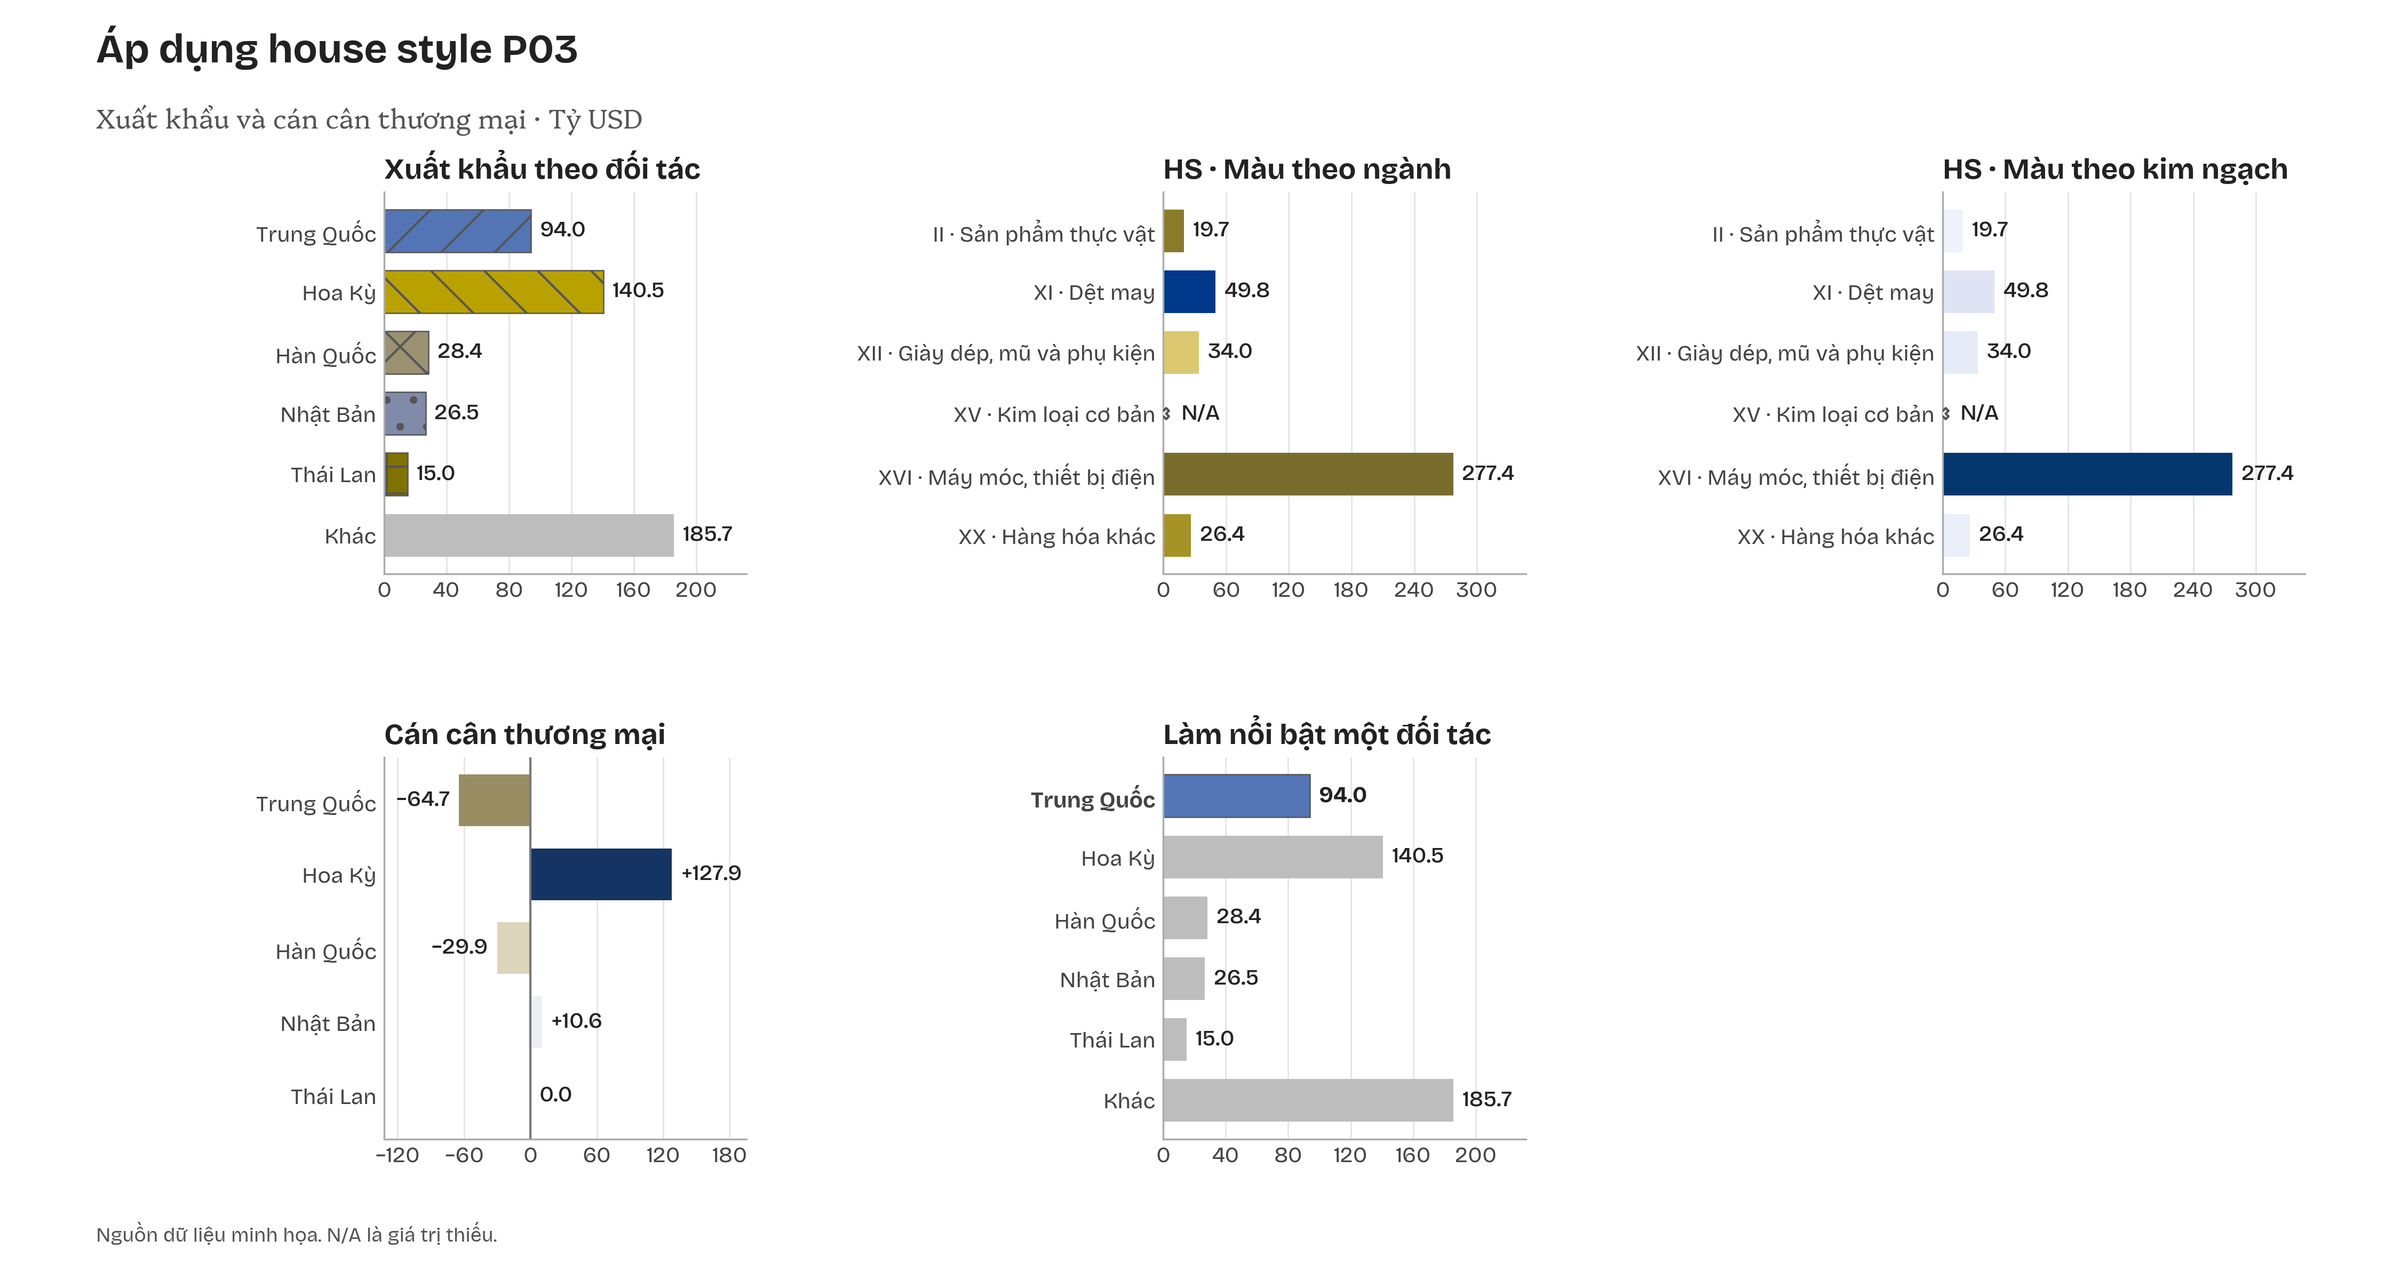
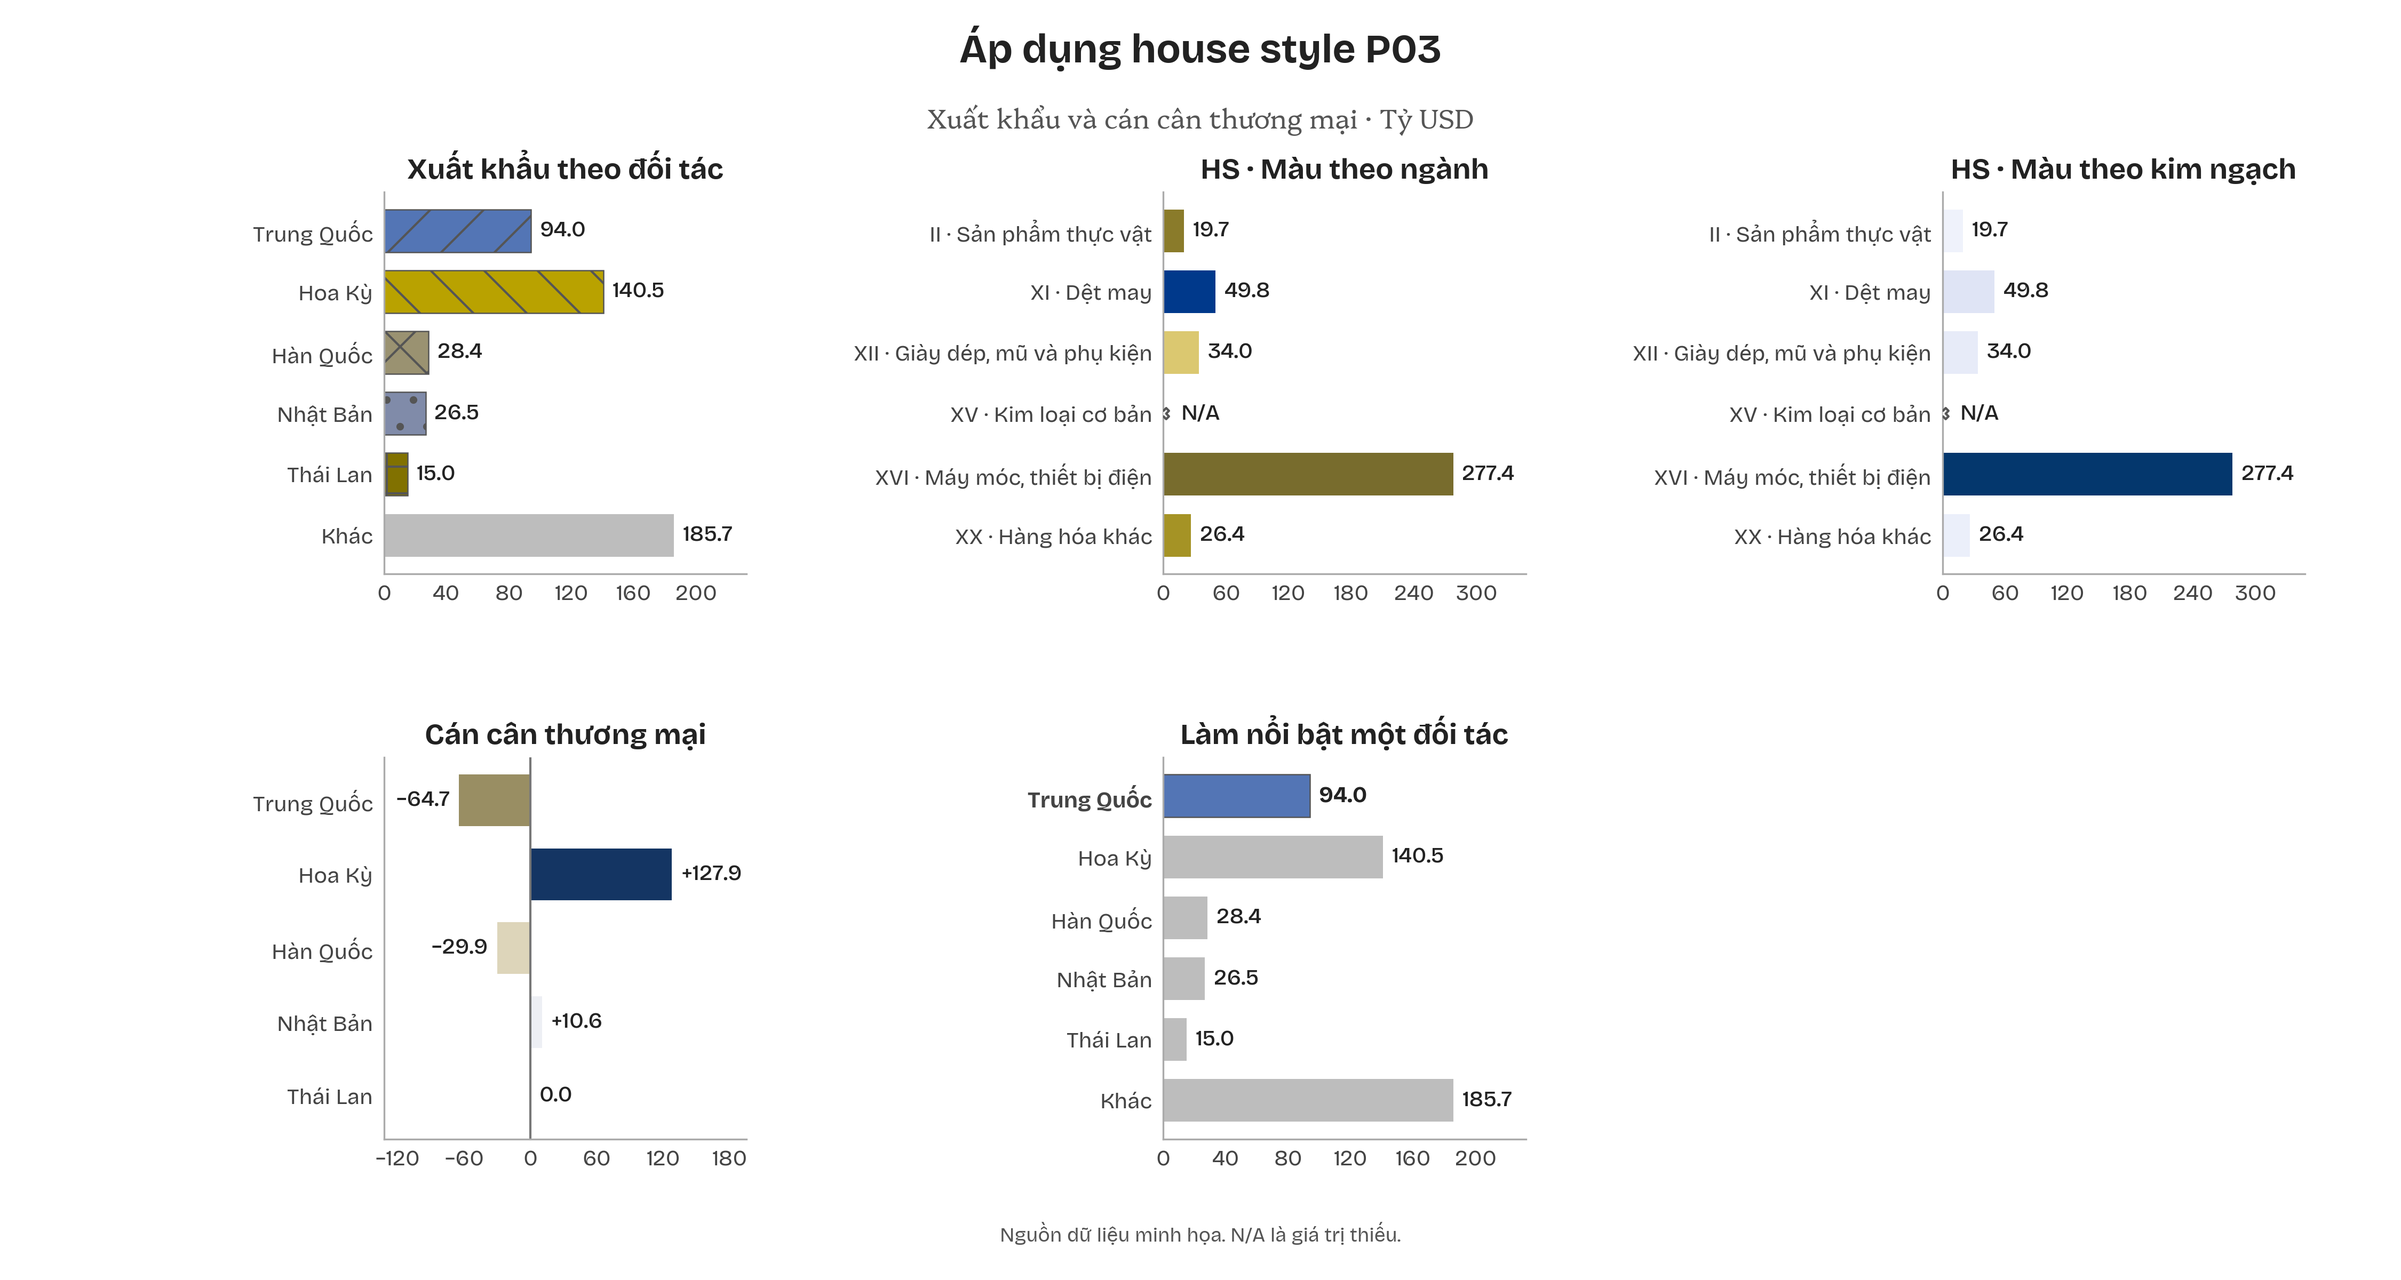
Update house style, typography, accessibility and appendix

diff --git a/house_style/tests/test_typography.py b/house_style/tests/test_typography.py
@@ -9,8 +9,10 @@ from matplotlib.figure import Figure
 from matplotlib.ft2font import FT2Font
 
 from house_style import apply_style
+from house_style.theme import AXIS_LABEL_GAP
 from house_style.typography import (
-    ANNOTATION, DIRECT_LABEL, EDITORIAL_FONTS, FONT_DIR, KPI, SANS_FONTS, SOURCE, SUBTITLE,
+    ANNOTATION, AXIS_TEXT_COLOR, AXIS_TEXT_WEIGHT, DIRECT_LABEL, EDITORIAL_FONTS,
+    FONT_DIR, KPI, SANS_FONTS, SOURCE, SUBTITLE,
 )
 
 VIETNAMESE = (
@@ -21,14 +23,44 @@ DATA_SYMBOLS = "0123456789%−+-.,:/()×₫–—"
 
 
 class TypographyTests(TestCase):
+    def test_axis_labels_and_ticks_share_style_and_equal_gaps(self):
+        with apply_style():
+            fig = Figure(dpi=144)
+            canvas = FigureCanvasAgg(fig)
+            ax = fig.subplots()
+            ax.set(
+                xlabel="Năm", ylabel="Tỷ USD danh nghĩa",
+                xlim=(0, 1), ylim=(100, 140), xticks=[0, 1], yticks=[100, 120, 140],
+            )
+            canvas.draw()
+            renderer = canvas.get_renderer()
+            gap = renderer.points_to_pixels(AXIS_LABEL_GAP)
+            for axis, ticks in ((ax.xaxis, ax.get_xticklabels()), (ax.yaxis, ax.get_yticklabels())):
+                for label in (axis.label, *ticks):
+                    self.assertEqual(label.get_color(), AXIS_TEXT_COLOR)
+                    self.assertEqual(label.get_fontweight(), AXIS_TEXT_WEIGHT)
+                    self.assertEqual(tuple(label.get_fontfamily()), SANS_FONTS)
+
+            x_ticks = [label.get_window_extent(renderer) for label in ax.get_xticklabels()]
+            x_label = ax.xaxis.label.get_window_extent(renderer)
+            y_ticks = [label.get_window_extent(renderer) for label in ax.get_yticklabels()]
+            y_label = ax.yaxis.label.get_window_extent(renderer)
+            self.assertAlmostEqual(ax.bbox.y0 - max(box.y1 for box in x_ticks), gap)
+            self.assertAlmostEqual(min(box.y0 for box in x_ticks) - x_label.y1, gap)
+            self.assertAlmostEqual(ax.bbox.x0 - max(box.x1 for box in y_ticks), gap)
+            self.assertAlmostEqual(min(box.x0 for box in y_ticks) - y_label.x1, gap)
+
     def test_font_roles_and_context(self):
         before = list(matplotlib.rcParams["font.family"])
         with apply_style():
             self.assertEqual(tuple(matplotlib.rcParams["font.family"]), SANS_FONTS)
+            self.assertEqual(matplotlib.rcParams["axes.titlelocation"], "center")
             for role in (DIRECT_LABEL, KPI, SOURCE):
                 self.assertEqual(role["fontfamily"], SANS_FONTS)
             for role in (SUBTITLE, ANNOTATION):
                 self.assertEqual(role["fontfamily"], EDITORIAL_FONTS)
+            for role in (SUBTITLE, ANNOTATION, SOURCE):
+                self.assertEqual(role["ha"], "center")
         self.assertEqual(matplotlib.rcParams["font.family"], before)
 
     def test_bundled_faces_and_glyph_coverage(self):
@@ -59,6 +91,6 @@ class TypographyTests(TestCase):
             ax.set(xlabel="Tháng", ylabel="Tỷ USD", title="Cán cân thương mại")
             ax.legend()
             ax.annotate("Chênh lệch −12.5%", (0, 0), **ANNOTATION)
-            fig.text(0.05, 0.95, "Giá khảo sát · 125,000 ₫", **SUBTITLE)
-            fig.text(0.05, 0.02, "Nguồn: Dữ liệu minh họa", **SOURCE)
+            fig.text(0.5, 0.95, "Giá khảo sát · 125,000 ₫", **SUBTITLE)
+            fig.text(0.5, 0.02, "Nguồn: Dữ liệu minh họa", **SOURCE)
             canvas.draw()

diff --git a/docs/appendix/t12_honest_vs_misleading.py b/docs/appendix/t12_honest_vs_misleading.py
@@ -1,0 +1,70 @@
+"""Generate the T12 axis-truncation comparison from BACI data."""
+
+import csv
+from pathlib import Path
+
+import matplotlib
+
+matplotlib.use("Agg")
+
+import matplotlib.pyplot as plt
+from matplotlib.ticker import FuncFormatter
+
+from house_style import apply_style, format_number
+from house_style.highlight import ACCENT_COLOR
+from house_style.theme import BAR_WIDTH, SLIDE_SIZE
+from house_style.typography import DIRECT_LABEL, SOURCE, SUBTITLE
+
+APPENDIX = Path(__file__).resolve().parent
+SOURCE_CSV = APPENDIX.parents[1] / "P03 Baci" / "data_clean" / "trade_year.csv"
+YEARS = (2023, 2024)
+UPPER_LIMIT = 140
+CROPPED_BASELINE = 110
+
+
+def read_balances():
+    with SOURCE_CSV.open(encoding="utf-8-sig", newline="") as stream:
+        rows = [
+            row for row in csv.DictReader(stream)
+            if row["country_iso3"] == "VNM" and int(row["year"]) in YEARS
+        ]
+    by_year = {int(row["year"]): float(row["trade_balance_usd"]) / 1e9 for row in rows}
+    if len(rows) != len(YEARS) or set(by_year) != set(YEARS):
+        raise ValueError("Expected one Vietnam trade balance for each selected year.")
+    return [by_year[year] for year in YEARS]
+
+
+def main():
+    values = read_balances()
+    if not all(CROPPED_BASELINE < value < UPPER_LIMIT for value in values):
+        raise ValueError("The selected values must fit both displayed scales.")
+
+    with apply_style():
+        fig, panels = plt.subplots(1, 2, figsize=SLIDE_SIZE)
+        fig.subplots_adjust(left=0.10, right=0.96, top=0.74, bottom=0.21, wspace=0.36)
+        fig.suptitle("Cán cân thương mại hàng hóa của Việt Nam")
+        fig.text(0.5, 0.88, "BACI · Việt Nam · 2023–2024", **SUBTITLE)
+
+        for ax, title, baseline, ticks in (
+            (panels[0], "A. Biểu đồ trung thực", 0, range(0, UPPER_LIMIT + 1, 20)),
+            (panels[1], "B. Minh họa gây hiểu lầm", CROPPED_BASELINE,
+             range(CROPPED_BASELINE, UPPER_LIMIT + 1, 5)),
+        ):
+            bars = ax.bar([str(year) for year in YEARS], values, width=BAR_WIDTH, color=ACCENT_COLOR)
+            ax.bar_label(bars, labels=[format_number(value, 2) for value in values],
+                         padding=5, **DIRECT_LABEL)
+            ax.set_title(title, fontsize=14)
+            ax.set_ylabel("Tỷ USD danh nghĩa")
+            ax.set(ylim=(baseline, UPPER_LIMIT), yticks=ticks)
+            ax.yaxis.set_major_formatter(FuncFormatter(lambda value, _: format_number(value)))
+
+        for ax, note in zip(panels, ("Trục Y bắt đầu tại 0 tỷ USD", "Trục Y bị cắt tại 110 tỷ USD")):
+            bounds = ax.get_position()
+            fig.text(bounds.x0 + bounds.width / 2, 0.13, note, **SUBTITLE)
+        fig.text(0.5, 0.055, "Nguồn: CEPII BACI HS2002, bảng trade_year.csv của P03.", **SOURCE)
+        fig.savefig(APPENDIX / "t12_honest_vs_misleading.png")
+        plt.close(fig)
+
+
+if __name__ == "__main__":
+    main()

diff --git a/house_style/typography.py b/house_style/typography.py
@@ -8,6 +8,8 @@ from matplotlib import font_manager
 FONT_DIR = Path(__file__).with_name("fonts")
 SANS_FONTS = ("Bricolage Grotesque", "DejaVu Sans")
 EDITORIAL_FONTS = ("Platypi", "DejaVu Sans")
+AXIS_TEXT_COLOR = "#444444"
+AXIS_TEXT_WEIGHT = "normal"
 FONT_FILES = (
     "BricolageGrotesque-Regular.ttf",
     "BricolageGrotesque-Medium.ttf",
@@ -28,23 +30,24 @@ def register_fonts():
 TYPOGRAPHY = {
     "font.family": SANS_FONTS,
     "font.size": 10,
+    "font.weight": AXIS_TEXT_WEIGHT,
     "text.color": "#222222",
     "figure.titlesize": 18,
     "figure.titleweight": "bold",
     "axes.titlesize": 18,
     "axes.titleweight": "bold",
-    "axes.titlelocation": "left",
+    "axes.titlelocation": "center",
     "axes.labelsize": 11,
-    "axes.labelweight": "medium",
-    "axes.labelcolor": "#333333",
+    "axes.labelweight": AXIS_TEXT_WEIGHT,
+    "axes.labelcolor": AXIS_TEXT_COLOR,
     "xtick.labelsize": 10,
     "ytick.labelsize": 10,
-    "xtick.color": "#444444",
-    "ytick.color": "#444444",
+    "xtick.labelcolor": AXIS_TEXT_COLOR,
+    "ytick.labelcolor": AXIS_TEXT_COLOR,
     "legend.fontsize": 10,
 }
-SUBTITLE = {"fontfamily": EDITORIAL_FONTS, "fontsize": 12, "color": "#555555", "ha": "left"}
-ANNOTATION = {"fontfamily": EDITORIAL_FONTS}
+SUBTITLE = {"fontfamily": EDITORIAL_FONTS, "fontsize": 12, "color": "#555555", "ha": "center"}
+ANNOTATION = {"fontfamily": EDITORIAL_FONTS, "ha": "center"}
 DIRECT_LABEL = {"fontfamily": SANS_FONTS, "fontsize": 10, "fontweight": "medium"}
 KPI = {"fontfamily": SANS_FONTS, "fontweight": "bold"}
-SOURCE = {"fontfamily": SANS_FONTS, "fontsize": 9, "color": "#555555", "ha": "left"}
+SOURCE = {"fontfamily": SANS_FONTS, "fontsize": 9, "color": "#555555", "ha": "center"}

diff --git a/house_style/evidence/generate.py b/house_style/evidence/generate.py
@@ -62,7 +62,7 @@ def strip(ax, palette, labels, mode):
 def save_palette(folder, name, mode):
     fig, axes = plt.subplots(5, figsize=(13, 9), layout="constrained",
                              gridspec_kw={"height_ratios": [1.2, 4, 1, 0.5, 0.5]})
-    fig.suptitle("Bảng màu P03", x=0.02, ha="left")
+    fig.suptitle("Bảng màu P03")
     for ax, title in zip(axes, ("Đối tác", "HS Section · HS2002", "Chiều thương mại và dữ liệu thiếu",
                                 "Tuần tự · Blues", "Phân kỳ · RdBu")):
         ax.set_title(title, fontsize=12)
@@ -110,9 +110,9 @@ def draw_bars(ax, title, order, values, labels, colors, mode, *, hatches=None, e
 def save_charts(folder, name, mode):
     fig, axes = plt.subplots(2, 3, figsize=(15, 8))
     fig.subplots_adjust(left=0.16, right=0.96, bottom=0.11, top=0.85, hspace=0.48, wspace=1.15)
-    fig.suptitle("Áp dụng house style P03", x=0.04, ha="left", y=0.98)
-    fig.text(0.04, 0.90, "Xuất khẩu và cán cân thương mại · Tỷ USD", **SUBTITLE)
-    fig.text(0.04, 0.03, "Nguồn dữ liệu minh họa. N/A là giá trị thiếu.", **SOURCE)
+    fig.suptitle("Áp dụng house style P03", y=0.98)
+    fig.text(0.5, 0.90, "Xuất khẩu và cán cân thương mại · Tỷ USD", **SUBTITLE)
+    fig.text(0.5, 0.03, "Nguồn dữ liệu minh họa. N/A là giá trị thiếu.", **SOURCE)
     partner_ax, category_ax, sequential_ax, balance_ax, highlight_ax, empty_ax = axes.flat
     draw_bars(partner_ax, "Xuất khẩu theo đối tác", PARTNER_ORDER, EXPORTS, PARTNER_LABELS,
               PARTNER_COLORS, mode, hatches=PARTNER_HATCHES)

diff --git a/house_style/theme.py b/house_style/theme.py
@@ -6,6 +6,7 @@ from .typography import TYPOGRAPHY, register_fonts
 
 SLIDE_SIZE = (12, 6.75)
 BAR_WIDTH = 0.7
+AXIS_LABEL_GAP = 5
 ZERO_LINE = {"color": "#777777", "linewidth": 1}
 THEME = {
     "figure.figsize": (10, 6),
@@ -18,8 +19,16 @@ THEME = {
     "axes.spines.right": False,
     "axes.edgecolor": "#AAAAAA",
     "axes.axisbelow": True,
-    "grid.color": "#E5E5E5",
-    "grid.linewidth": 0.7,
+    "axes.grid": False,
+    "axes.labelpad": AXIS_LABEL_GAP,
+    "xtick.major.pad": AXIS_LABEL_GAP,
+    "ytick.major.pad": AXIS_LABEL_GAP,
+    "xtick.minor.pad": AXIS_LABEL_GAP,
+    "ytick.minor.pad": AXIS_LABEL_GAP,
+    "xtick.major.size": 0,
+    "ytick.major.size": 0,
+    "xtick.minor.size": 0,
+    "ytick.minor.size": 0,
     "legend.frameon": False,
     "lines.linewidth": 2,
     "lines.markersize": 5,
@@ -36,7 +45,6 @@ def declutter(ax, quantitative_axis="y"):
     for side in ("top", "right"):
         ax.spines[side].set_visible(False)
     ax.set_axisbelow(True)
-    ax.grid(axis=quantitative_axis)
+    ax.grid(False, which="both", axis="both")
     axis = ax.xaxis if quantitative_axis == "x" else ax.yaxis
     axis.set_major_locator(MaxNLocator(nbins=6))
-    ax.tick_params(length=0)

diff --git a/house_style/tests/test_accessibility.py b/house_style/tests/test_accessibility.py
@@ -24,7 +24,7 @@ class AccessibilityTests(TestCase):
     def test_theme_and_text_contrast(self):
         with apply_style():
             self.assertEqual(matplotlib.rcParams["savefig.dpi"], 300)
-            for key in ("text.color", "axes.labelcolor", "xtick.color"):
+            for key in ("text.color", "axes.labelcolor", "xtick.labelcolor", "ytick.labelcolor"):
                 luminance = float(to_rgb(matplotlib.rcParams[key])[0])
                 linear = ((luminance + 0.055) / 1.055) ** 2.4
                 self.assertGreaterEqual(1.05 / (linear + 0.05), 4.5)

diff --git a/docs/appendix/t12_honest_vs_misleading.md b/docs/appendix/t12_honest_vs_misleading.md
@@ -1,0 +1,29 @@
+# Phụ lục T12 Biểu đồ trung thực và biểu đồ gây hiểu lầm
+
+Cán cân thương mại hàng hóa của Việt Nam theo BACI tăng từ **113.08 tỷ USD năm 2023** lên **128.38 tỷ USD năm 2024**, tương đương **15.30 tỷ USD** hay **13.53%** so với năm 2023. Hai biểu đồ dưới đây dùng cùng hai quan sát, đơn vị, màu và nhãn số. Điểm thay đổi là miền hiển thị trên trục Y. [BACI HS2002 · Bảng thương mại theo năm](../../P03%20Baci/data_clean/trade_year.csv)
+
+![Bên trái, biểu đồ cột có trục từ 0 đến 140 tỷ USD. Bên phải, cùng hai giá trị trên trục từ 110 đến 140 tỷ USD, khiến cột năm 2024 trông cao hơn nhiều.](t12_honest_vs_misleading.png)
+
+**Hình T12.1. Cán cân thương mại hàng hóa của Việt Nam giai đoạn 2023–2024, tỷ USD danh nghĩa.** Ô A biểu diễn mức cán cân bằng chiều cao tính từ 0. Ô B là ví dụ cố ý gây hiểu lầm bằng cách cắt trục tại 110 tỷ USD.
+
+## Thủ thuật và tác động
+
+Trong ô A, thanh năm 2024 cao khoảng **1.14 lần** thanh năm 2023 vì cả hai được đo từ 0. Trong ô B, phần nhìn thấy của hai thanh chỉ còn khoảng **3.08** và **18.38 tỷ USD** tính từ mép dưới hình. Tỷ số chiều cao nhìn thấy vì vậy tăng lên khoảng **5.97 lần**, mặc dù tỷ lệ giữa hai giá trị nguồn vẫn khoảng 1.14.
+
+Thủ thuật khai thác cách người xem so chiều dài thanh trên cùng một mốc. Hình B có thể khiến người xem đánh giá mức tăng lớn hơn thực tế trước khi đọc nhãn số. Nguyên tắc dùng vị trí trên thang chung và chiều dài để so sánh độ lớn được trình bày trong Lecture 3, slide 23–28 và Tutorial 3, chương 5. [Lecture 3](../../../Lecture-3.pdf) · [Tutorial 3](../../../Tutorials-3.pdf)
+
+## Cách phát hiện khi đọc biểu đồ
+
+1. **Đọc mốc thấp nhất của trục.** Trong ô B, mép dưới là 110 tỷ USD. Với biểu đồ cột dùng để so độ lớn, mốc 0 giữ quan hệ tỷ lệ giữa chiều cao và giá trị.
+2. **Đối chiếu nhãn với hình dạng.** Hai nhãn là 113.08 và 128.38 tỷ USD. Tính mức tăng từ số gốc theo công thức `(cán cân 2024 − cán cân 2023) / cán cân 2023 × 100` cho kết quả 13.53%.
+3. **Kiểm tra giai đoạn và đơn vị.** Cả hai ô chỉ so sánh năm 2023 và 2024, cùng tính theo tỷ USD danh nghĩa. Nếu mục tiêu là đọc xu hướng dài hạn, xem thêm các năm trong bảng nguồn.
+
+## Tái tạo hình
+
+Chạy từ thư mục gốc của repo trong môi trường Python có Matplotlib và House Style.
+
+```powershell
+python -m docs.appendix.t12_honest_vs_misleading
+```
+
+Script lấy `trade_balance_usd` của Việt Nam trong hai năm 2023 và 2024, đổi từ USD sang tỷ USD và dùng cùng giá trị cho cả hai ô. [Script tạo hình](t12_honest_vs_misleading.py)
